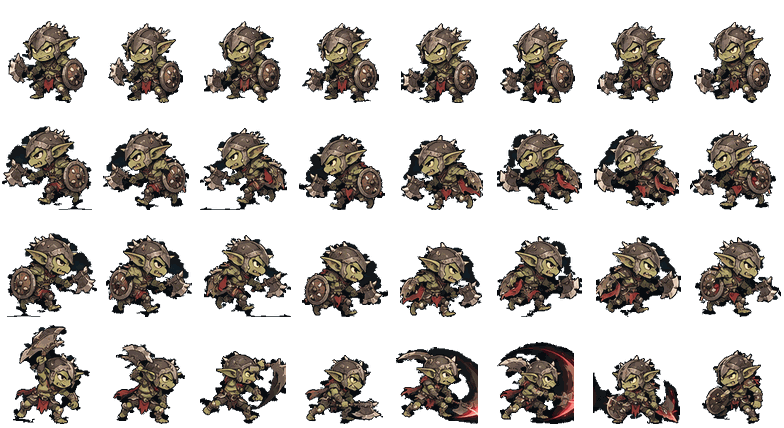
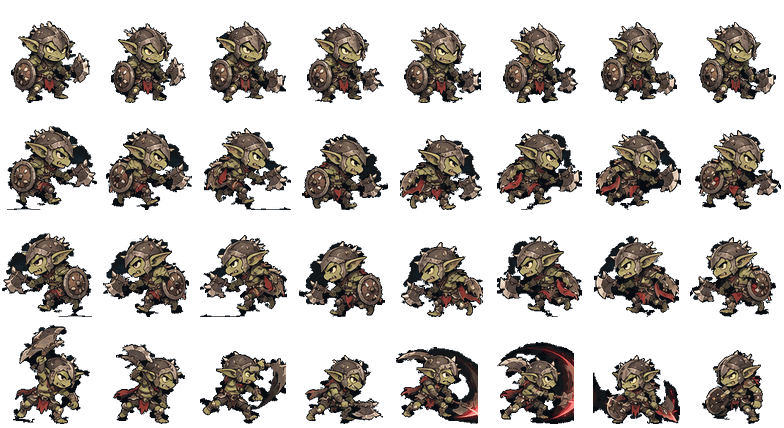
좌우가 뒤집혀 있던 두 시트를 바로잡는다
열일곱 시트의 네 줄을 전부 눈으로 훑어 둘을 찾았다. 고블린은 대기가 오른쪽을
보고 있었고(적인데 파티에 등을 보였다) 걷기 두 줄이 서로 바뀌어 있었으며, 오크
주술사는 공격의 보라 마법이 오른쪽으로 나갔다. 나머지 열다섯은 다 맞았다.

고블린의 대기를 뒤집으면서 자르는 자리도 같이 뒤집었다(`x` → `1 - (x + w)`).
편성 목록과 초상화가 대기 첫 장을 쓰므로 안 뒤집으면 초상화에 얼굴 대신 뒤통수가
들어온다.

고치는 방법도 적어 두었다. 구운 시트는 256색 팔레트라 RGBA로 열어 다시 구우면
재양자화가 한 겹 더 걸려 인물 가장자리에 검은 테가 생기고, 팔레트 모드에서
`paste`를 써도 PIL이 색을 다시 맞추려 들어 그림이 깨진다 — 둘 다 실제로 그렇게
나왔다. 인덱스 배열을 직접 옮기면 색이 한 픽셀도 안 바뀐다.

Claude-Session: https://claude.ai/code/session_015YSpsURuUqPhSx5KiHykMJ

diff --git a/index.html b/index.html
@@ -121,7 +121,7 @@
     <a href="https://github.com/cshlacid/web-games">GitHub</a>
     <!-- 배포 표시. main에 머지할 때마다 올린다 — 규칙은 CLAUDE.md에 있다.
          날짜에 그날의 번호를 붙여, 같은 날 여러 번 올려도 구별된다. -->
-    <span class="deploy">2026-09-09.18</span>
+    <span class="deploy">2026-09-09.19</span>
   </footer>
 </main>
 

diff --git a/games/healer/sprites.js b/games/healer/sprites.js
@@ -78,8 +78,8 @@ const SHEETS = {
     },
     crops: {
       full: { x: 0, y: 0, w: 1, h: 1 },
-      list: { x: 0.07, y: 0.18, w: 0.84, h: 0.80 },
-      head: { x: 0.28, y: 0.19, w: 0.50, h: 0.40 },
+      list: { x: 0.09, y: 0.18, w: 0.84, h: 0.80 },
+      head: { x: 0.22, y: 0.19, w: 0.50, h: 0.40 },
     },
   },
 

diff --git a/games/healer/CLAUDE.md b/games/healer/CLAUDE.md
@@ -1973,6 +1973,21 @@ Lv6 알맞음 75% · Lv6+3 방치 4% · Lv6+3 42% · Lv3+2 46% · Lv8+2 25% · L
 - **적 시안은 뒤집지 않는다.** 아군은 대기와 공격이 오른쪽(적 쪽)을 봐야 해서
   대기 줄을 뒤집는데, 적은 파티를 마주 보므로 왼쪽이 맞는 방향이고 시안이 이미
   그쪽을 본다. 걷기 두 줄은 아군과 같다 — 왼쪽이 원본, 오른쪽이 뒤집은 것.
+- **방향은 자동으로 볼 수 없어 눈으로 본다.** 열일곱 시트의 네 줄을 전부 훑어
+  둘을 찾았다. **고블린**은 대기가 오른쪽을 보고 있었고(적인데 아군 쪽이 아니라
+  등을 보였다) 걷기 두 줄이 서로 바뀌어 있었으며, **오크 주술사**는 공격의 보라
+  마법이 오른쪽으로 나갔다. 나머지 열다섯은 네 줄이 다 맞았다.
+- **판단은 얼굴이 아니라 나가는 것으로 한다.** 대기는 무기를 든 쪽과 머리카락·
+  망토가 흐르는 쪽으로 읽고, 공격은 **참격·마법이 터지는 방향**으로 읽는다 —
+  공격 자세는 몸을 틀어 방패와 검이 대기와 반대 손에 가 있는 시안이 많아
+  (수호자가 그렇다) 손 위치로 보면 멀쩡한 줄을 뒤집게 된다.
+- **고칠 때는 인덱스만 옮긴다.** 구운 시트는 256색 팔레트라, RGBA로 열어 다시
+  구우면 재양자화가 한 겹 더 걸려 인물 가장자리에 검은 테가 생긴다. 팔레트 모드
+  그대로 `paste`를 써도 PIL이 색을 다시 맞추려 들어 그림이 통째로 깨진다 —
+  둘 다 실제로 그렇게 나왔다. 인덱스 배열을 직접 옮기면 색이 한 픽셀도 안 바뀐다.
+- **대기 줄을 뒤집으면 자르는 자리도 같이 뒤집는다**(`x` → `1 - (x + w)`).
+  편성 목록과 초상화가 대기 첫 장을 쓰므로, 안 뒤집으면 초상화에 얼굴 대신
+  뒤통수나 어깨가 들어온다.
 - **적 시트의 `box`는 아군과 다른 잣대로 잡는다.** 아군은 서로 키를 맞추면 되지만
   적은 **그 적의 예전 도형과 같은 키**여야 나란히 섰을 때 크기 관계가 안 바뀐다
   (고블린은 도형이 22칸이었고, 칸이 세로로 길어 `box` 30이 그 키다).
